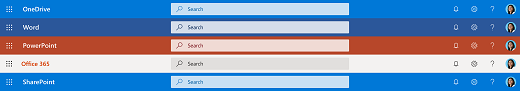
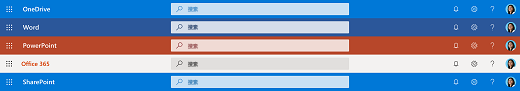
commit translated contents

diff --git a/MicrosoftSearch/security.md b/MicrosoftSearch/security.md
@@ -15,12 +15,12 @@ search.appverid:
 ms.assetid: 50461cb9-8707-46c1-935a-1b9608a98800
 ROBOTS: NOINDEX
 description: 在使用 Microsoft 搜索向授权用户提供信息的同时保护企业数据和用户
-ms.openlocfilehash: 4e5e23e5e1389c95d28ede66e06707f9856a3770
-ms.sourcegitcommit: fe7f3dae4edba97071a4d127e8a27bdf4fa00d81
+ms.openlocfilehash: 72f45097ebdc97a03d6016d4cac9a19327c68f30
+ms.sourcegitcommit: a7ca4c38d37fbdec58e002e42d865188939d0483
 ms.translationtype: HT
 ms.contentlocale: zh-CN
-ms.lasthandoff: 06/05/2019
-ms.locfileid: "34727934"
+ms.lasthandoff: 06/15/2019
+ms.locfileid: "35003107"
 ---
 # <a name="security-for-microsoft-search"></a>Microsoft 搜索安全性
 
@@ -59,26 +59,15 @@ Microsoft 搜索的身份验证绑定到 Azure Active Directory。当 Microsoft 
   
 - 日志记录
     
-  - 与 Microsoft 搜索流量相关的所有搜索日志都被取消标识，并与公共、非 Microsoft 搜索流量分开存储。它们将保留 18 个月，并且访问权限仅限于调试目的。
-    
-  - 这些日志中的查询不用于对公共 Web 的自动建议或相关搜索等公共功能进行建模或训练。
-    
+  - 已取消标识所有与 Microsoft 搜索流量相关的搜索日志。这些日志将保留 18 个月。
+  - 存储在这些系统日志中的查询将仅用于在满足一组限制和频率阈值时对公共功能（如针对公共网络结果的自动建议或相关搜索）进行建模和培训，这使我们相信这些查询是常见的，而不是特定于某个组织。 相应查询必须在非 Microsoft 搜索用户的共同相关数据中出现过很多次，并且该查询不能仅触发企业搜索结果。 不满足这些要求的查询将与公共的非 Microsoft 搜索流量分开存储。
   - 受限访问通过各种安全机制进行管理，包括工程系统中的安全组和其他层。
-    
-- 搜索历史记录
-    
-  - 当用户使用工作或学校帐户登录时，用户的搜索历史记录将无法在其他计算机或设备上使用。
     
 - 广告
     
   - 企业搜索查询从不与广告商共享或推荐给广告商。
-    
-  - 与 Microsoft 搜索相关的搜索广告日志与公共流量是分开存储的。
-    
   - 广告永远不会以基于工作身份或组织的用户为目标。
     
 ## <a name="gdpr"></a>GDPR
 
 Microsoft [ 2018 年 5 月 21 日，博客文章](https://blogs.microsoft.com/on-the-issues/2018/05/21/microsofts-commitment-to-gdpr-privacy-and-putting-customers-in-control-of-their-own-data/)反映了我们对遵守 GDPR 的承诺，以及 Microsoft 如何帮助企业和组织履行自己的 GDPR 合规义务。可以在 Microsoft [信任中心常见问题](https://www.microsoft.com/en-us/trustcenter/privacy/gdpr/gdpr-faqs)中找到更多详细信息。在 Online Services 中对组织客户的客户数据进行操作的 Microsoft 搜索查询也将满足第 28 条中列出的处理者承诺，如[信任中心常见问题](https://www.microsoft.com/en-us/trustcenter/privacy/gdpr/gdpr-faqs)所述。对于从 Microsoft 搜索到公共必应的查询，Microsoft 是一个数据控制器，它已实施一些措施来取消识别 GDPR 下列出的查询。
-
-

diff --git a/MicrosoftSearch/overview-microsoft-search.md b/MicrosoftSearch/overview-microsoft-search.md
@@ -13,12 +13,12 @@ search.appverid:
 - MET150
 - MOE150
 description: 简要了解 Microsoft 搜索是什么、它的优点以及哪些应用目前拥有 Microsoft 搜索。
-ms.openlocfilehash: c60ece3778db4696437d8ed0c5cefd0bfaa39142
-ms.sourcegitcommit: 9345523f0143f613c702cd3dcc084b5f7bd6a0b5
+ms.openlocfilehash: d16066c941bb5c3619d7fd50e9cf33952216fb87
+ms.sourcegitcommit: a7ca4c38d37fbdec58e002e42d865188939d0483
 ms.translationtype: HT
 ms.contentlocale: zh-CN
-ms.lasthandoff: 06/07/2019
-ms.locfileid: "34767187"
+ms.lasthandoff: 06/15/2019
+ms.locfileid: "35003134"
 ---
 # <a name="overview-of-microsoft-search"></a>Microsoft 搜索概述
 
@@ -147,12 +147,11 @@ SharePoint 中的 Microsoft 搜索是 SharePoint Online 中的新式搜索体验
 
 无论用户查询在返回的响应中是包含一个还是多个工作相关结果，都要采取以下措施：
 
-**日志记录** - 所有与 Microsoft 搜索流量有关的搜索日志都会被取消标识并与公共的非 Microsoft 搜索流量分开存储。 这些内容会保留 18 个月，且访问将仅限于调试目的。 这些日志中的查询不用于对公共 Web 的自动建议或相关搜索等公共功能进行建模或训练。 受限访问通过各种安全机制进行管理，包括工程系统中的安全组和其他层。
+**日志记录** - 已取消标识所有与 Microsoft 搜索流量相关的搜索日志，这些日志将保留 18 个月。 存储在这些系统日志中的查询将仅用于在满足一组限制和频率阈值时对公共功能（如针对公共网络结果的自动建议或相关搜索）进行建模和培训，这使我们相信这些查询是常见的，而不是特定于某个组织。 相应查询必须在非 Microsoft 搜索用户的共同相关数据中出现过很多次，并且该查询不能仅触发企业搜索结果。 不满足这些要求的查询将与公共的非 Microsoft 搜索流量分开存储。 受限访问通过各种安全机制进行管理，包括工程系统中的安全组和其他层。
 
 **搜索历史记录** - 当用户使用工作或学校帐户登录时，用户的搜索历史记录将无法在其他计算机或设备上使用。
 
 **广告** - 企业搜索查询从不与广告商共享或推荐给广告商。
-与 Microsoft 搜索相关的搜索广告日志与公共流量是分开存储的。
 广告永远不会以基于工作身份或组织的用户为目标。
 
 ## <a name="see-also"></a>另请参阅

diff --git a/MicrosoftSearch/plan-your-content.md b/MicrosoftSearch/plan-your-content.md
@@ -14,12 +14,12 @@ search.appverid:
 - MOE150
 ms.assetid: bb9d90b6-6c86-4b19-9235-3bd9b19826ab
 description: 使用 Microsoft 搜索时，无需额外资源便可提供高质量内容
-ms.openlocfilehash: 88c2af543be02f8e17937e36a81fd28d862e8fb0
-ms.sourcegitcommit: be2e837d9b087bffe6ce40d72d7ae58a8fcdf3fe
+ms.openlocfilehash: 90774f8606f5582338c12b4f123153b6f3f4de74
+ms.sourcegitcommit: 9df9b1a5f83c9fbe62900df183bee239a8ea6d91
 ms.translationtype: HT
 ms.contentlocale: zh-CN
-ms.lasthandoff: 05/30/2019
-ms.locfileid: "34591203"
+ms.lasthandoff: 06/14/2019
+ms.locfileid: "34947749"
 ---
 # <a name="plan-your-content"></a>规划内容
 
@@ -91,7 +91,7 @@ ms.locfileid: "34591203"
 
 为内容创建做出贡献的用户和 SME 可以帮助测试和验证搜索结果。
 
-## <a name="step-5-review-and-update-periodically"></a>步骤 5：定期查看并更新
+## <a name="step-5-use-insights-to-review-and-update-periodically"></a>步骤 5：使用见解定期进行查看和更新
 务必确保书签和问答等权威信息是最新的。 定期：
 - 修复或删除损坏或无效的 URL。
 - 删除不再相关的书签或问答。

diff --git a/MicrosoftSearch/setup-microsoft-search.md b/MicrosoftSearch/setup-microsoft-search.md
@@ -13,12 +13,12 @@ search.appverid:
 - MET150
 - MOE150
 description: 首次设置 Microsoft 搜索。
-ms.openlocfilehash: 5b686d34375453fd98bdb0915ee49016e71da20d
-ms.sourcegitcommit: fe7f3dae4edba97071a4d127e8a27bdf4fa00d81
+ms.openlocfilehash: c95cc0d11d60e3d4d9a509dc691c01858ede7262
+ms.sourcegitcommit: 9df9b1a5f83c9fbe62900df183bee239a8ea6d91
 ms.translationtype: HT
 ms.contentlocale: zh-CN
-ms.lasthandoff: 06/05/2019
-ms.locfileid: "34728002"
+ms.lasthandoff: 06/14/2019
+ms.locfileid: "34947740"
 ---
 # <a name="set-up-microsoft-search"></a>设置 Microsoft 搜索
 
@@ -34,7 +34,7 @@ ms.locfileid: "34728002"
 
  
 
-**注意：** 如果在“**Microsoft 365 管理中心**”的“**设置**”下看到“**Microsoft 搜索**”，请打开管理中心右上角的“**请尝试预览**”开关。 
+**注意：** 如果没有在 **Microsoft 365 管理中心**的“**设置**”下看到 **Microsoft 搜索**，请打开管理中心右上角的“**试用预览版**”开关。 
 
 作为管理员，你应该考虑一些可使 **Microsoft Search** 体验在组织内实现高效且用户友好的因素。
 
